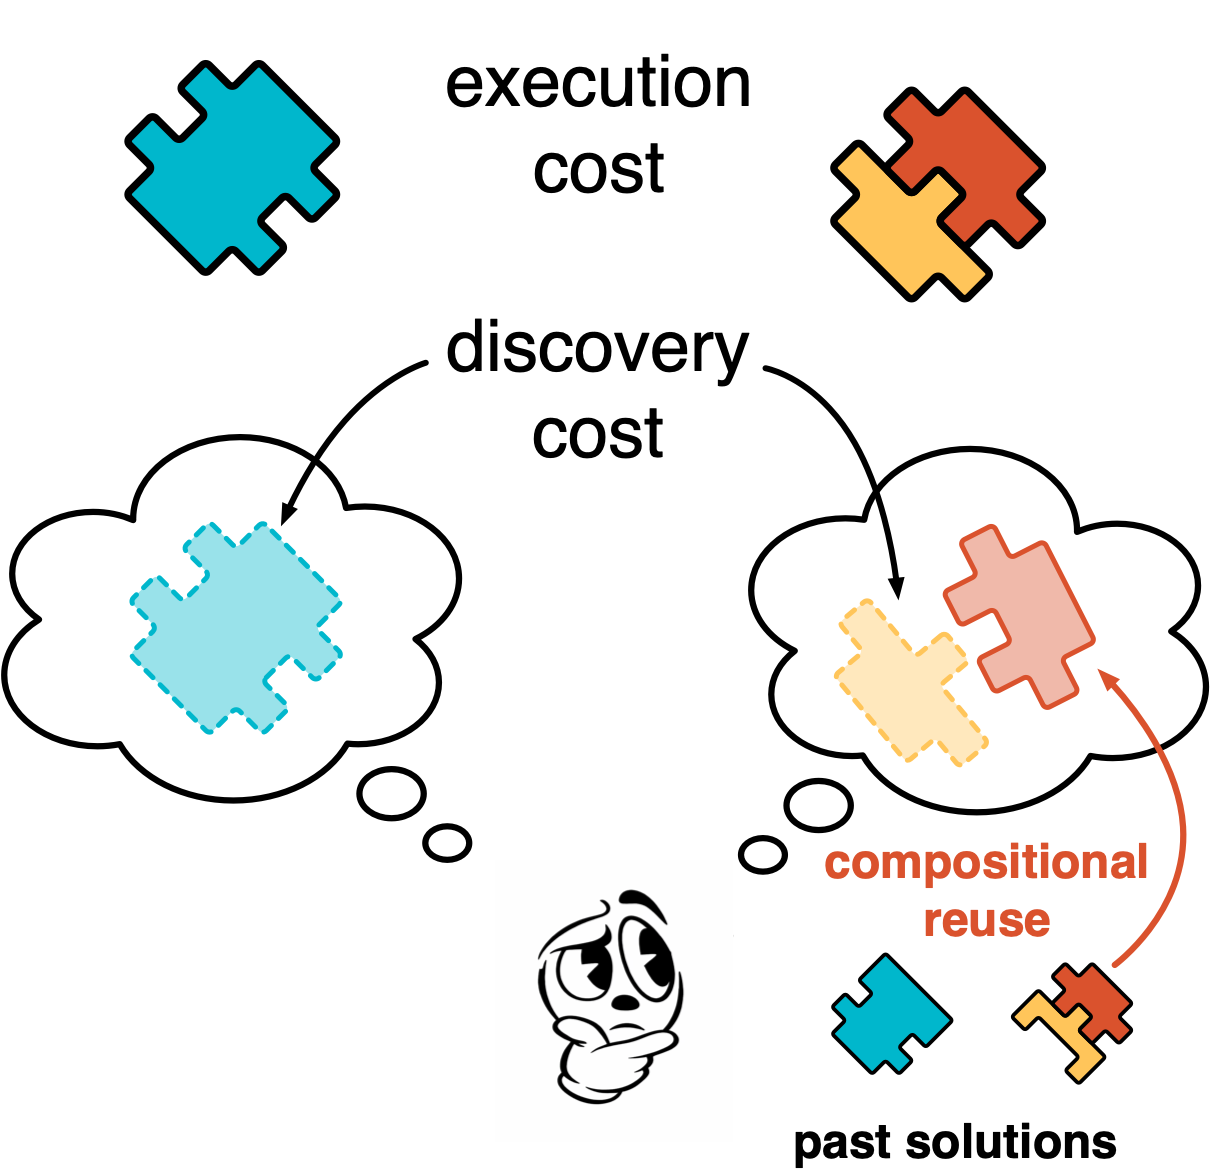
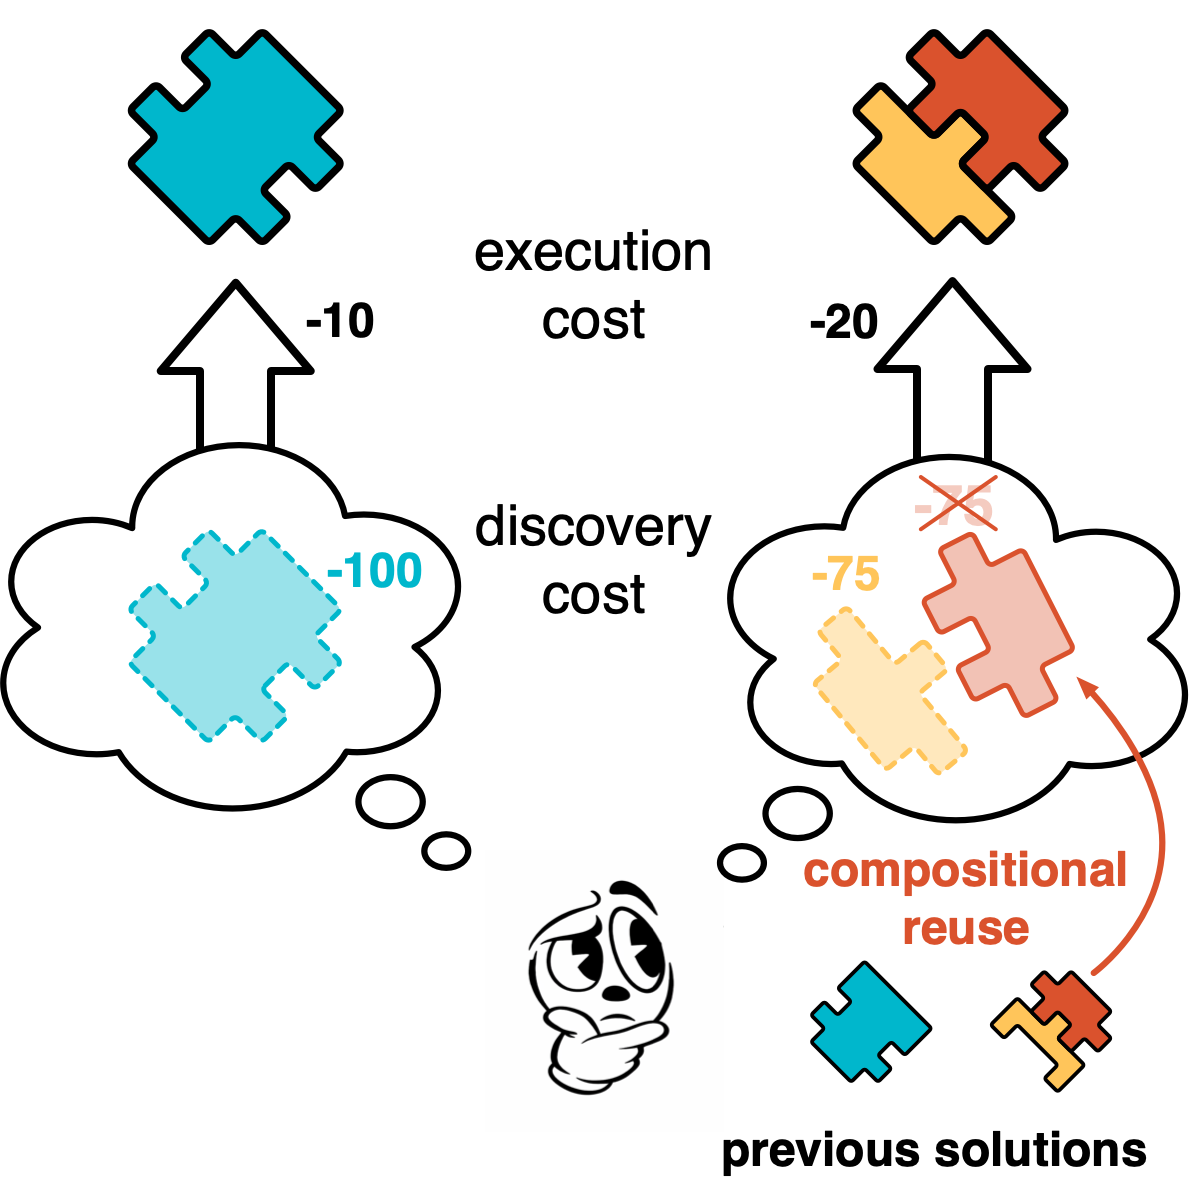
hoo boy

diff --git a/pages/culture/culture.md b/pages/culture/culture.md
@@ -82,7 +82,7 @@ farrell2025large
 
 ---
 
-# Compositional task space
+# Compositional problem solving
 
 <div w-70 h-full>
   <div relative w-90 h-full>
@@ -126,9 +126,9 @@ farrell2025large
   </div>
 </Switch>
 
-::rcite::
+::cite::
 
-<Tex text-xs tex="S = 10,\; λ_\text{exec}=0.2,\; λ_\text{disc}=0.5" />
+<Tex text-16pt tex="\lambda_\text{exec}=0.2,\; λ_\text{disc}=0.75,\; S = 10" />
 
 ---
 
@@ -136,24 +136,52 @@ farrell2025large
 
 <img src='./fig/individual-costs-SK.png' />
 
-::rcite::
+::cite::
 
-<Tex text-xs tex="\lambda_\text{exec}=0.2,\; λ_\text{disc}=0.5" />
+<Tex text-16pt tex="\lambda_\text{exec}=0.2,\; λ_\text{disc}=0.75" />
 
 ---
 
 # When should a *population* be compositional?
 
-
 <img w-50 src='./fig/social-costs.png' />
 
-<div w-75>
-  <br><div h1 />
-     too few → unlikely to observe anything relevant
-  <br>
-     too many → likely to observe bespoke
+::cite::
+
+<Tex text-16pt tex="\lambda_\text{exec}=0.2,\; λ_\text{disc}=0.75,\; D=30" />
+
+---
+
+# When should a *population* be compositional?
+
+<div w-70 relative>
+  <img h55 src='./img/model-reuse.png' />
+  <div text-xs l32 t55 font-bold text-purple>including other's!</div>
 </div>
 
+<img h-50 src='./fig/social-costs.png' />
+
+::cite::
+
+<Tex text-16pt tex="\lambda_\text{exec}=0.2,\; λ_\text{disc}=0.75,\; D=30" />
+
+---
+
+# A victory for compositional social learning
+
+<img h-45 src='./fig/individual-costs-SK.png' />
+<img h-45 src='./fig/social-costs.png' />
+
+---
+
+# A *problem* for compositional social learning
+
+<img h-45 src='./fig/individual-costs-SK.png' />
+<img h-45 src='./fig/social-costs.png' />
+
+::bottom::
+
+[how does it get started?]{v-click .font-italic}
 
 
 ---
@@ -161,16 +189,6 @@ farrell2025large
 # When *will* a population be compositional?
 
 <img src='./fig/asymptotic.png' />
-
----
-
-### so, good things evolve? fascinating stuff...
-
----
-
-# Good things do not always evolve
-
-<img src='./fig/mismatch.png' />
 
 ---
 
